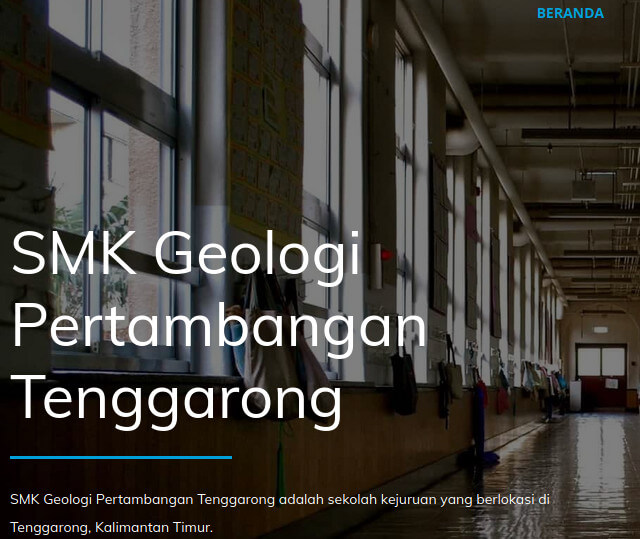
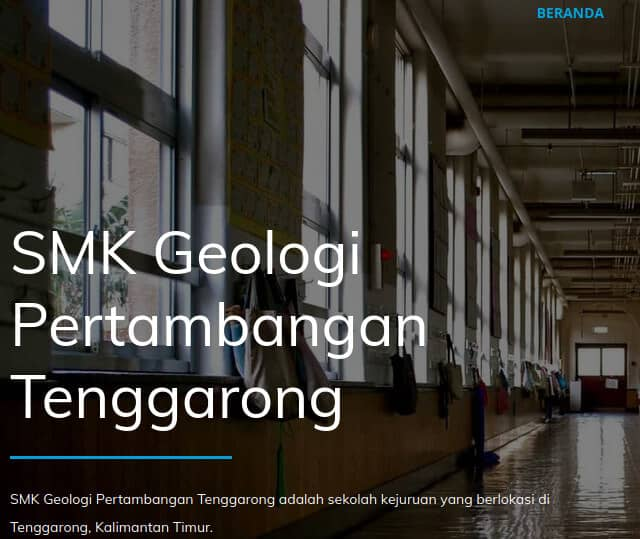
Remove Google Fonts, change font to Roboto, index and style improvement, and compress images

diff --git a/css/main.css b/css/main.css
@@ -1,6 +1,7 @@
 body {
 	margin: 0;
 	padding: 0;
+	font-family: Roboto, sans-serif;
 }
 
 header {
@@ -17,7 +18,7 @@ header h1 {
 	float: left;
 	padding-left: 20px;
 	font-size: 30px;
-	font-weight: bold;
+	font-weight: 400;
 }
 
 nav {
@@ -38,6 +39,8 @@ nav li a:hover {
 
 nav li a {
 	font-size: 20px;
+	font-weight: 300;
+	color: #586069;
 }
 
 /* Hide checkbox for menu */
@@ -46,26 +49,22 @@ input[type=checkbox] {
 	-webkit-appearance: none;
 }
 
-h1, h2, h3, footer p, .not-found a {
-	font-family: 'Questrial', sans-serif;
+h1, h2, h3, p, .not-found a {
 	font-size: 40px;
-	font-weight: lighter;
+	font-weight: 300;
+	line-height: 30px;
 }
 
 h3 {
 	font-size: 20px !important;
 }
 
-p, nav li a {
-	font-family: 'Gudea', sans-serif;
-}
-
 a {
 	text-decoration: none;
 }
 
-li a {
-	color: black;
+p {
+	font-size: 16px;
 }
 
 ol, ul {
@@ -87,7 +86,7 @@ section.white {
 	width: 80px;
 	height: 3px;
 	background-color: #57c1b6ff;
-	margin: -15px auto;
+	margin: -12px auto;
 }
 
 article.profile .divider {
@@ -117,7 +116,7 @@ article.profile .divider {
 	height: 300px;
 	border: 5px solid #e1e4e8;
 	border-radius: 50%;
-	margin-top: 30px;
+	margin-top: 50px;
 }
 
 .skill, .portfolio-list, .my-contact {
@@ -129,7 +128,7 @@ article.profile .divider {
 	display: inline-block;
 	padding: 0px;
 	margin: auto;
-	margin-left: -85px;
+	margin-left: -100px;
 }
 
 .skills h2, .portfolio h2, .contact h2 {
@@ -139,7 +138,7 @@ article.profile .divider {
 .skill img {
 	width: 140px;
 	height: 140px; 
-	padding: 0px 100px 150px 150px;
+	padding: 0px 100px 150px 185px;
 	margin-top: 20px;
 }
 
@@ -184,7 +183,7 @@ article.profile .divider {
 }
 
 .my-contact p {
-	margin: 10px;
+	margin: 7px;
 	text-align: center;
 }
 
@@ -197,7 +196,8 @@ footer {
 }
 
 footer p {
-	font-size: 14px !important;
+	font-size: 14px;
+	line-height: 15px;
 }
 
 section.not-found {
@@ -237,18 +237,19 @@ section.not-found {
 }
 
 /* Responsive page for mobile device */
-@media screen and (max-width: 768px) {
+@media screen and (max-width: 890px) {
 	.profile {
 		margin: 80px 0px 60px 0px;
 	}
 	
 	.profile img {
 		margin-bottom: -80px;
+		margin-top: 30px;
 	}
 	
 	header h1 {
-		margin: 20px 0px 0px 0px;
-		font-size: 21px;
+		margin: 15px 0px -7px 0px;
+		font-size: 24px;
 		float: left;
 	}
 	
@@ -277,7 +278,7 @@ section.not-found {
 		background-image: url(../img/icon/menu-bar.svg);
 		background-repeat: no-repeat;
 		display: inline-block;
-		margin-top: -35px;
+		margin-top: -30px;
 		margin-right: -45px;
 		width: 45px;
 		height: 45px;
@@ -325,6 +326,15 @@ section.not-found {
 	
 	.my-contact li {
 		padding: 30px 0px;
+	}
+	
+	.my-contact p {
+		margin: 20px;
+	}
+	
+	footer p {
+		font-size: 13px;
+		line-height: 10px;
 	}
 	
 	section.not-found {

diff --git a/index.html b/index.html
@@ -4,9 +4,6 @@
 		<title>Wahyu Wiyoko</title>
 		<meta name="viewport" content="width=device-width, initial-scale=1.0">
 		<link rel="stylesheet" href="css/main.css">
-		<link rel="preconnect" href="https://fonts.gstatic.com">
-		<link href="https://fonts.googleapis.com/css2?family=Questrial&display=swap" rel="stylesheet"> 
-		<link href="https://fonts.googleapis.com/css2?family=Gudea&family=Mulish:wght@200&family=Questrial&display=swap" rel="stylesheet">
 	</head>
 	<body>
 		<header>
@@ -36,7 +33,7 @@
 						<h2>About Me</h2>
 						<div class="divider"></div>
 						<p>
-							Hello, my name is Wahyu Alvi Wiyoko. I'm a software engineering expertise student at 
+							Hi, my name is Wahyu Alvi Wiyoko. I'm a software engineering expertise student at 
 							Tenggarong Mining Geology Vocational High School. 
 						</p>
 						<p>	
@@ -46,12 +43,12 @@
 						</p>
 						<p>
 							Currently, I'm still learning Java and PHP. And sometimes the applications 
-							that I made will be posted on Github, so the other people can create and modify their own useful applications.
+							that I made will be posted on GitHub, so the other people can create and modify their own useful applications.
 						</p>
 					</article>
 			</section>
 			
-			<section class="white cf">
+			<section class="cf white">
 				<article class="skills">
 					<h2 id="skills">My Skills</h2>
 					<div class="divider"></div>
@@ -106,7 +103,7 @@
 				</article>
 			</section>
 			
-			<section class="white cf">
+			<section class="cf white">
 				<article class="contact">
 					<h2 id="contact">Contact</h2>
 					<div class="divider"></div>
@@ -134,7 +131,7 @@
 		</main>
 		
 		<footer>
-			<p>&copy; 2021 · Wahyu Wiyoko</p>
+			<p>&copy; 2021 Wahyu Wiyoko</p>
 		</footer>
 	</body>
 </html>

diff --git a/404.html b/404.html
@@ -4,9 +4,6 @@
 		<title>Error 404</title>
 		<meta name="viewport" content="width=device-width, initial-scale=1.0">
 		<link rel="stylesheet" href="css/main.css">
-		<link rel="preconnect" href="https://fonts.gstatic.com">
-		<link href="https://fonts.googleapis.com/css2?family=Questrial&display=swap" rel="stylesheet"> 
-		<link href="https://fonts.googleapis.com/css2?family=Gudea&family=Mulish:wght@200&family=Questrial&display=swap" rel="stylesheet">
 	</head>
 	<body>
 		<section class="not-found">
